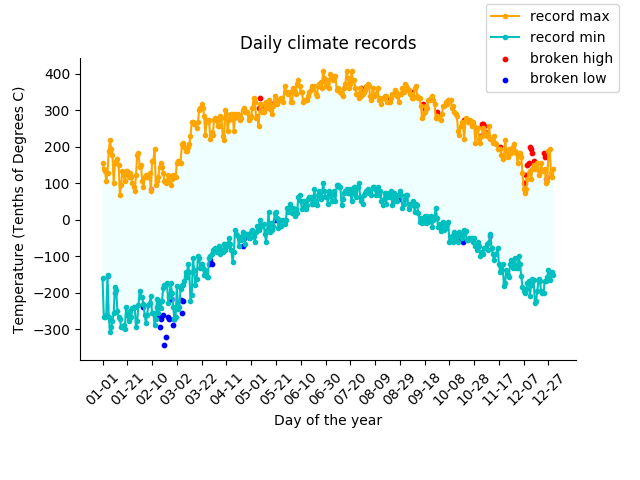
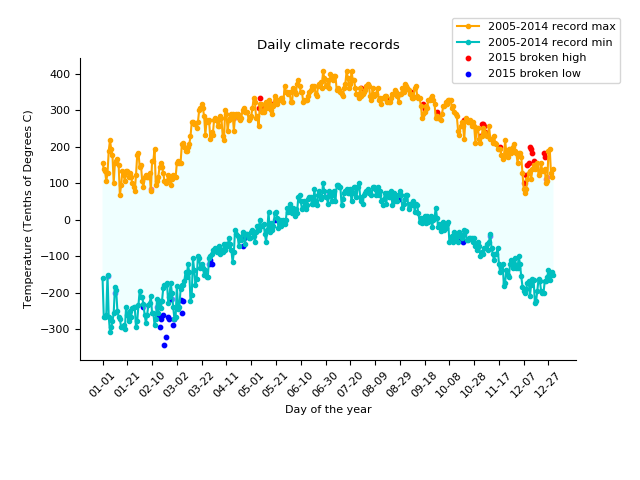
(dev) finished assignment 2

diff --git a/02-Applied Plotting, Charting And Data Representation/Assignment+2.py b/02-Applied Plotting, Charting And Data Representation/Assignment+2.py
@@ -25,6 +25,8 @@ temp_max_15 = df[(df['Element'] == 'TMAX') & (df['Year'] == '2015')].groupby('Mo
 broken_min = np.where(temp_min_15['Data_Value'] < df_min['Data_Value'])[0]
 broken_max = np.where(temp_max_15['Data_Value'] > df_max['Data_Value'])[0]
 
+plt.rcParams.update({'font.size': 8})
+
 plt.figure()
 plt.plot(df_max.values, ".-", color="orange")
 plt.plot(df_min.values, ".c-")
@@ -33,11 +35,13 @@ plt.scatter(broken_min, temp_min_15.iloc[broken_min], s = 10, c = 'b')
 plt.xlabel('Day of the year')
 plt.ylabel('Temperature (Tenths of Degrees C)')
 plt.title('Daily climate records')
-plt.legend(['record max', 'record min','broken high', 'broken low'], loc=1,bbox_to_anchor=(1.1, 1.2))
+plt.legend(['2005-2014 record max', '2005-2014 record min','2015 broken high', '2015 broken low'], loc=1,bbox_to_anchor=(1.1, 1.15))
 plt.xticks(range(0, len(df_min), 20), df_min.index[range(0, len(df_min), 20)], rotation = '45')
 plt.subplots_adjust(bottom=0.25)
 plt.gca().spines['top'].set_visible(False)
 plt.gca().spines['right'].set_visible(False)
 plt.gca().fill_between(range(len(df_min)), df_min["Data_Value"], df_max["Data_Value"], facecolor = 'lightcyan', alpha = 0.5)
 plt.show()
+
+
 
